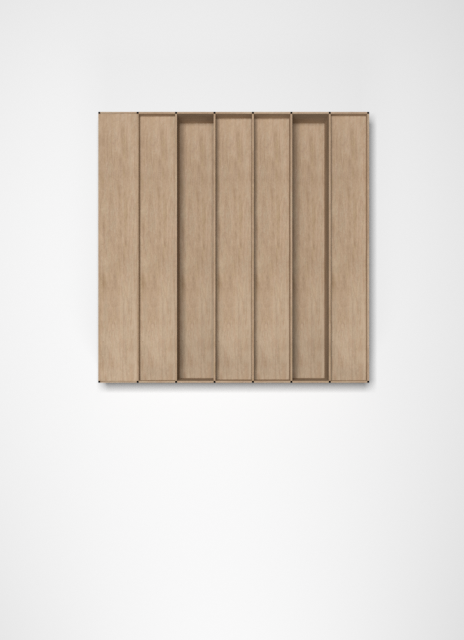
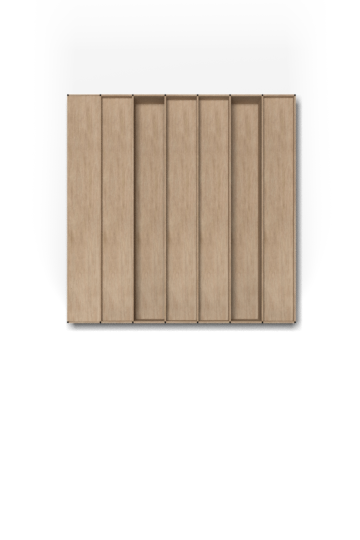
add to miniature shop

diff --git a/public/style/style.scss b/public/style/style.scss
@@ -1010,13 +1010,14 @@ $creme : #eee3d6;
 .shop_card {
   aspect-ratio: 4/1.5 !important;
   position: relative;
-  min-width: 24% !important;
+  min-width: 23% !important;
 }
 
 .shop_main_row {
   column-gap: 5px;
   row-gap: 5px;
-}
+/*   width: 98vw;
+ */}
 
 .shop_card_price {
   bottom: 15%;
@@ -1028,7 +1029,7 @@ padding: 2vw;
 }
 
 .shop_card img {
-  width: 95%;
+  width: fit-content;
 }
 
 .shop_categorie_logo img {
